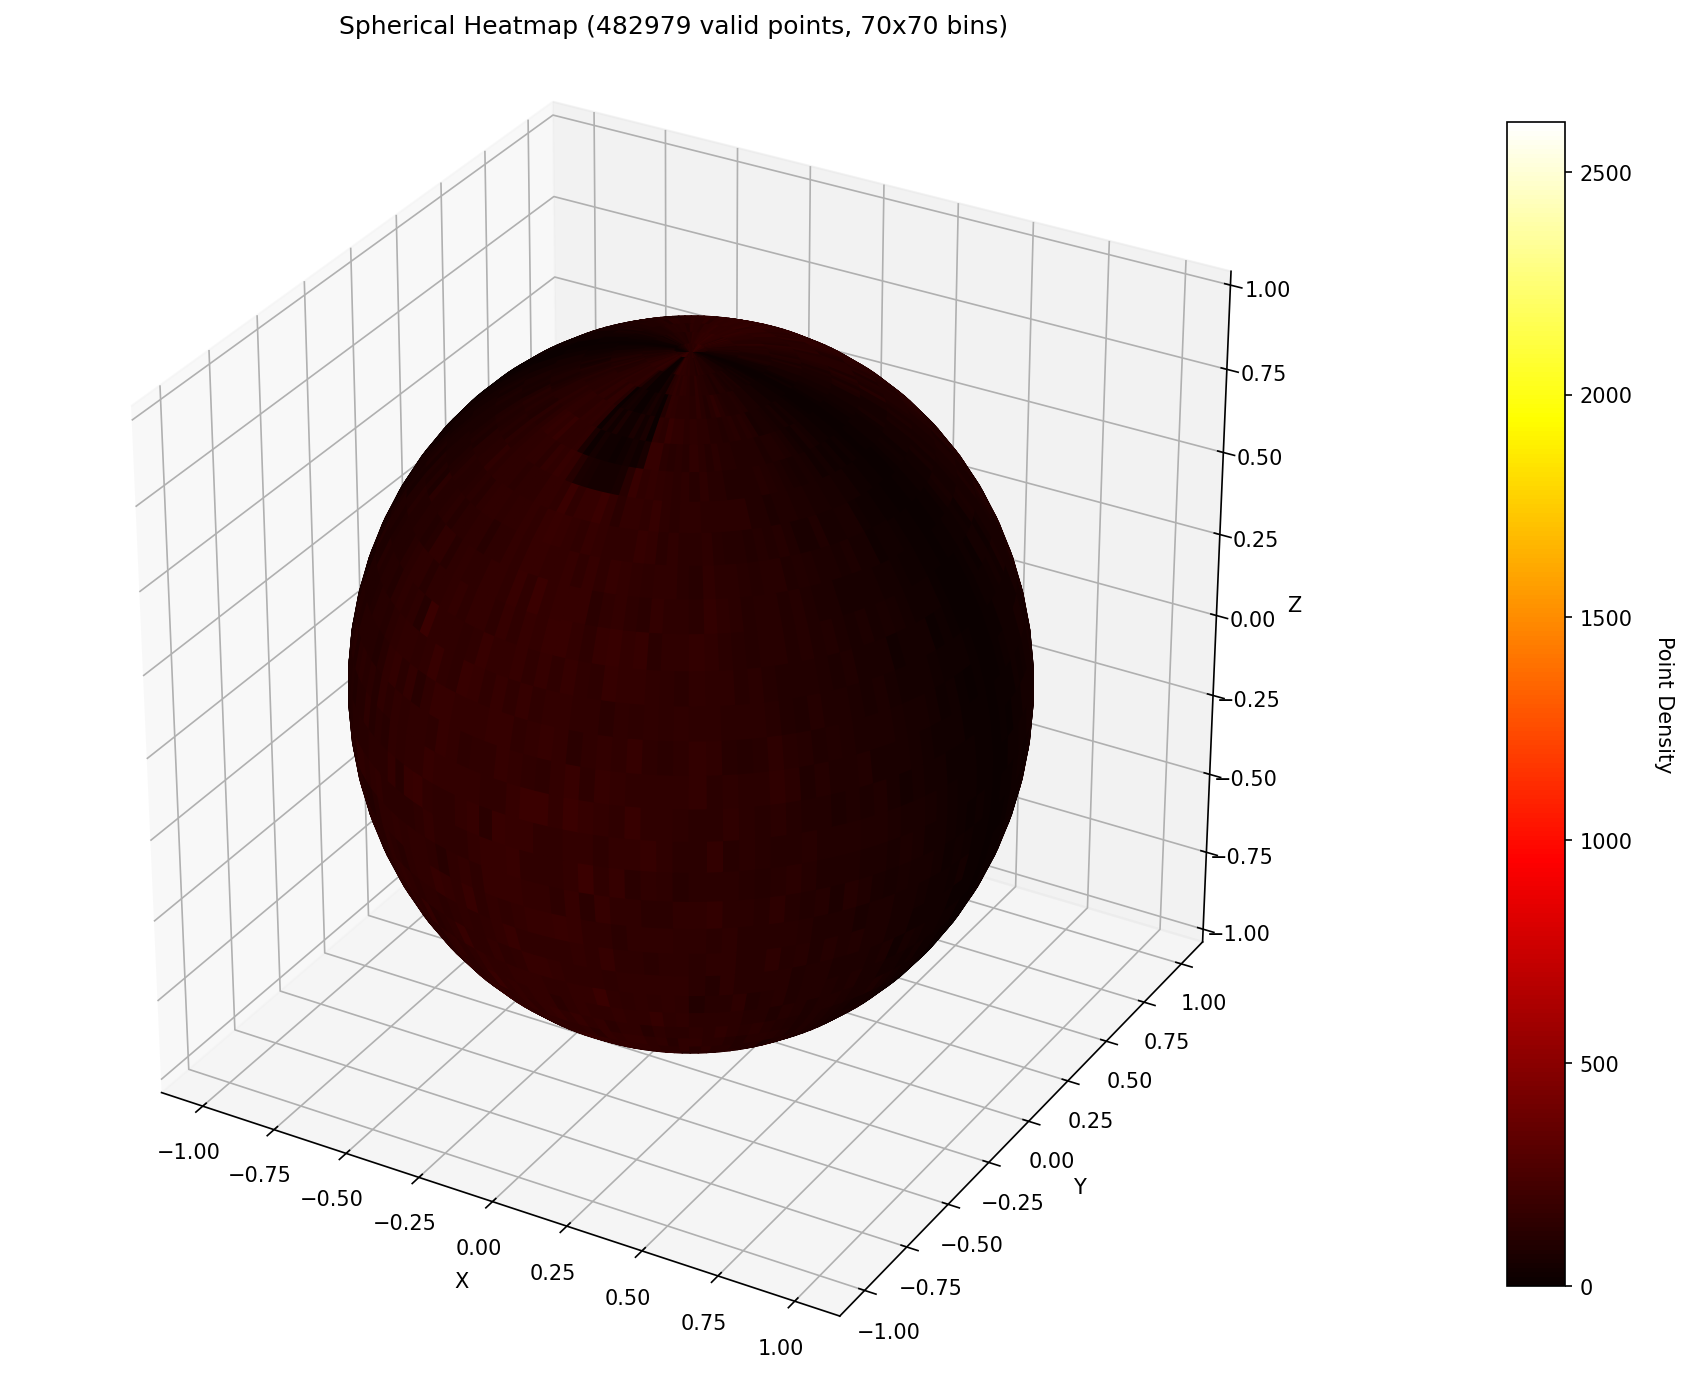
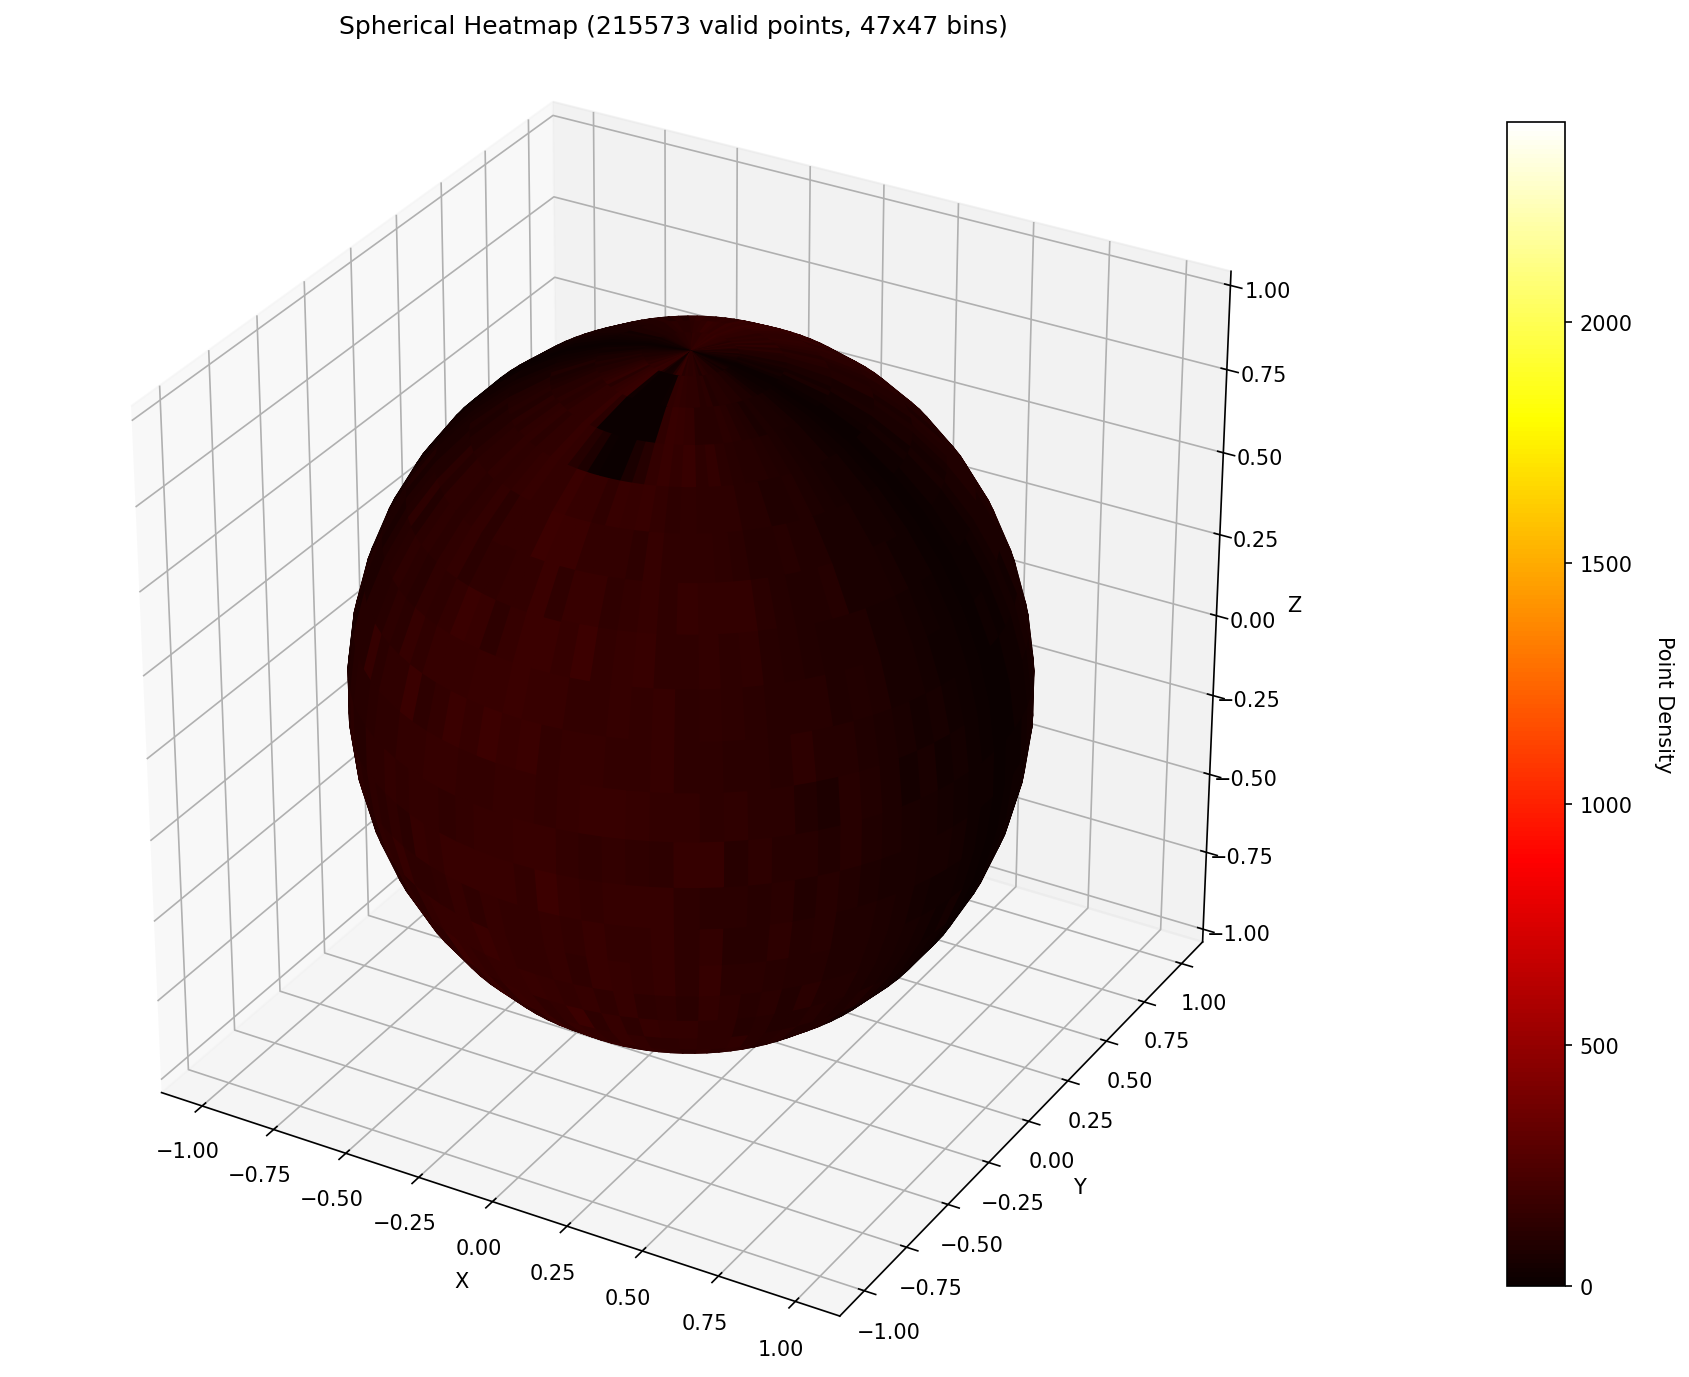
Messing Around with Plotting

diff --git a/plot_spherical.py b/plot_spherical.py
@@ -9,6 +9,9 @@ import matplotlib.pyplot as plt
 from mpl_toolkits.mplot3d import Axes3D
 import os
 from pathlib import Path
+import plotly.express as px
+import plotly.graph_objects as go
+import pandas as pd
 
 def load_npy_files(folder_path):
     """Load all npy files from a folder and return combined data."""
@@ -69,7 +72,8 @@ def analyze_probe_visits(data):
         'Interloper Visits',
         'White Hole Visits',
         'Stranger Visits',
-        'Random Eye Visits'
+        'Random Eye Visits',
+        'Spacey Visits'
     ]
     
     # Print total visits for each body
@@ -102,7 +106,7 @@ def analyze_probe_visits(data):
             if probe[field] > 0:
                 bodies_visited += 1
         
-        if bodies_visited > 1:
+        if bodies_visited > 2:
             multi_visit_probes.append((idx, probe, bodies_visited))
     
     print(f"\nFound {len(multi_visit_probes)} probes that visited multiple bodies\n")
@@ -129,11 +133,11 @@ def analyze_probe_visits(data):
                     body_name = field.replace(' Visits', '')
                     bodies_info.append(f"{body_name} ({visits})")
             
-            print(f"\nProbe {probe_idx}:")
-            print(f"  Bodies visited: {', '.join(bodies_info)}")
-            print(f"  Launch direction (x,y,z): ({launch_x:.6f}, {launch_y:.6f}, {launch_z:.6f})")
-            print(f"  Launch direction (polar, azimuth): ({polar:.6f}, {azimuth:.6f})")
-            print(f"  Launch velocity: {launch_vel:.6f}")
+            #print(f"\nProbe {probe_idx}:")
+            #print(f"  Bodies visited: {', '.join(bodies_info)}")
+            #print(f"  Launch direction (x,y,z): ({launch_x:.6f}, {launch_y:.6f}, {launch_z:.6f})")
+            #print(f"  Launch direction (polar, azimuth): ({polar:.6f}, {azimuth:.6f})")
+            #print(f"  Launch velocity: {launch_vel:.6f}")
     
     print("\n" + "=" * 70)
 
@@ -358,6 +362,145 @@ def plot_launch_directions_heatmap(data, x_field='Launch x', y_field='Launch y',
     plt.tight_layout()
     return fig, ax
 
+def plot_spherical_points(data, polar_field='Eye Shell Polar', azimuth_field='Eye Shell Azimuth', radius=1.0):
+    """
+    Plot points in spherical coordinates on a 3D sphere.
+    
+    Args:
+        data: numpy structured array
+        polar_field: Field name for polar angle
+        azimuth_field: Field name for azimuth angle
+        radius: Radius of the sphere (default 1.0)
+    """
+    if data is None or len(data) == 0:
+        print("No data to plot")
+        return
+    
+    # Extract fields
+    polar = np.array(data[polar_field], dtype=float)
+    azimuth = np.array(data[azimuth_field], dtype=float)
+    t = np.array(data['Eye Shell Time'], dtype=float)  # Assuming there's a time field for color mapping
+    # Filter out NaN values
+    valid_mask = np.isfinite(polar) & np.isfinite(azimuth)
+    polar = polar[valid_mask]
+    azimuth = azimuth[valid_mask]
+    t = t[np.isfinite(t)]
+    
+    num_discarded = len(data) - len(polar)
+    if num_discarded > 0:
+        print(f"Discarded {num_discarded} points with NaN values")
+    print(f"Using {len(polar)} valid points")
+    
+    if len(polar) == 0:
+        print("No valid data points after filtering NaN values")
+        return
+    
+    # Convert spherical to Cartesian coordinates
+    x, y, z = spherical_to_cartesian(polar, azimuth, radius=radius)
+    df = pd.DataFrame({
+        'x': x,
+        'y': y,
+        'z': z,
+        't': t
+    })
+    fig = px.scatter_3d(df, x='x', y='y', z='z', opacity=1, color='t')
+    fig.update_scenes(aspectmode='cube')  # Making the axes be a cube
+    fig.update_traces(marker_size=2)
+    fig.show()
+
+def plot_launch_directions(data, x_field='Launch x', y_field='Launch y', z_field='Launch z', 
+                           body_hit_colors=None):
+    """
+    Plot launch directions in 3D Cartesian coordinates.
+    NaN points are colored discretely by 'Body Hit' index, valid points by 'Eye Shell Time' (continuous).
+    
+    Args:
+        data: numpy structured array
+        x_field: Field name for x component
+        y_field: Field name for y component
+        z_field: Field name for z component
+        body_hit_colors: Dictionary mapping Body Hit index to color name. 
+                        Example: {0: 'red', 1: 'blue', 2: 'green', 3: 'yellow'}
+                        If None, uses default Plotly colors.
+    """
+    if data is None or len(data) == 0:
+        print("No data to plot")
+        return
+    
+    # Extract Cartesian components
+    x = np.array(data[x_field], dtype=float)
+    y = np.array(data[y_field], dtype=float)
+    z = np.array(data[z_field], dtype=float)
+    t = np.array(data['Eye Shell Time'], dtype=float)
+    body_hit = np.array(data['Body Hit'], dtype=float)
+    
+    # Create mask for valid points
+    valid_mask = np.isfinite(x) & np.isfinite(y) & np.isfinite(z)
+    
+    num_nan = np.sum(np.isnan(t))
+    num_valid = np.sum(np.isfinite(t))
+    if num_nan > 0:
+        print(f"Found {num_nan} points with NaN values (will color by Body Hit)")
+    print(f"Using {num_valid} valid points (colored by Eye Shell Time)")
+    
+    # Create figure
+    fig = go.Figure()
+    
+    # Add valid points (colored by Eye Shell Time - continuous)
+    if num_valid > 0:
+        x_valid = x[np.isfinite(t)]
+        y_valid = y[np.isfinite(t)]
+        z_valid = z[np.isfinite(t)]
+        t_valid = t[np.isfinite(t)]
+        
+        fig.add_trace(go.Scatter3d(
+            x=x_valid, y=y_valid, z=z_valid,
+            mode='markers',
+            marker=dict(
+                size=2,
+                color=t_valid,
+                colorscale='Viridis',
+                showscale=True,
+                colorbar=dict(title="Eye Shell Time", x=1.1)
+            ),
+            name='Valid Points',
+            opacity=1
+        ))
+    
+    # Add NaN points (colored by Body Hit - discrete)
+    if num_nan > 0:
+        x_nan = x[np.isnan(t)]
+        y_nan = y[np.isnan(t)]
+        z_nan = z[np.isnan(t)]
+        body_hit_nan = body_hit[np.isnan(t)]
+        
+        # Map Body Hit indices to color names
+        if body_hit_colors is None:
+            # Default color sequence
+            color_palette = ['red', 'blue', 'green', 'orange', 'purple', 'brown', 'pink', 'gray', 'olive', 'cyan']
+            # Get unique non-NaN values
+            unique_body_hits = np.unique(body_hit_nan[~np.isnan(body_hit_nan)])
+            body_hit_colors = {int(i): color_palette[idx % len(color_palette)] 
+                              for idx, i in enumerate(unique_body_hits)}
+        
+        # Group NaN points by Body Hit index for better legend
+        unique_indices = np.unique(body_hit_nan[~np.isnan(body_hit_nan)])
+        for body_hit_idx in unique_indices:
+            mask = body_hit_nan == body_hit_idx
+            fig.add_trace(go.Scatter3d(
+                x=x_nan[mask], y=y_nan[mask], z=z_nan[mask],
+                mode='markers',
+                marker=dict(
+                    size=2,
+                    color=body_hit_colors.get(int(body_hit_idx), 'gray')
+                ),
+                name=f'{int(body_hit_idx)}',
+                opacity=1
+            ))
+    
+    fig.update_layout(scene=dict(aspectmode='cube'))
+    fig.show()
+
 def main():
     """Main execution function."""
     outputs_folder = Path("Outputs")
@@ -380,39 +523,64 @@ def main():
         num_points = len(data)
         bins = min(100, max(30, int(np.sqrt(num_points / 100))))
         print(f"\nAuto-selecting {bins} bins for {num_points} points\n")
-        
+        if False:
         # Plot 1: Eye Shell position heatmap
-        print("=" * 60)
-        print("PLOT 1: Eye Shell Position Heatmap")
-        print("=" * 60)
-        fig1, ax1 = plot_spherical_heatmap(data, 
-                                           polar_field='Eye Shell Polar', 
-                                           azimuth_field='Eye Shell Azimuth', 
-                                           radius=1.0,
-                                           bins=bins)
+            print("=" * 60)
+            print("PLOT 1: Eye Shell Position Heatmap")
+            print("=" * 60)
+            fig1, ax1 = plot_spherical_heatmap(data, 
+                                            polar_field='Eye Shell Polar', 
+                                            azimuth_field='Eye Shell Azimuth', 
+                                            radius=1.0,
+                                            bins=bins)
+            
+            # Save figure
+            output_file1 = "spherical_heatmap_eye_shell.png"
+            plt.savefig(output_file1, dpi=150, bbox_inches='tight')
+            print(f"Plot saved to {output_file1}\n")
+        if False:
+            # Plot 2: Launch directions heatmap
+            print("=" * 60)
+            print("PLOT 2: Launch Directions Heatmap")
+            print("=" * 60)
+            fig2, ax2 = plot_launch_directions_heatmap(data,
+                                                    x_field='Launch x',
+                                                    y_field='Launch y',
+                                                    z_field='Launch z',
+                                                    radius=1.0,
+                                                    bins=bins)
+            
+            # Save figure
+            output_file2 = "spherical_heatmap_launch_directions.png"
+            plt.savefig(output_file2, dpi=150, bbox_inches='tight')
+            print(f"Plot saved to {output_file2}\n")
+            
+            plt.show()
+
+        plot_spherical_points(data, polar_field='Eye Shell Polar', azimuth_field='Eye Shell Azimuth', radius=286500)
         
-        # Save figure
-        output_file1 = "spherical_heatmap_eye_shell.png"
-        plt.savefig(output_file1, dpi=150, bbox_inches='tight')
-        print(f"Plot saved to {output_file1}\n")
-        
-        # Plot 2: Launch directions heatmap
-        print("=" * 60)
-        print("PLOT 2: Launch Directions Heatmap")
-        print("=" * 60)
-        fig2, ax2 = plot_launch_directions_heatmap(data,
-                                                   x_field='Launch x',
-                                                   y_field='Launch y',
-                                                   z_field='Launch z',
-                                                   radius=1.0,
-                                                   bins=bins)
-        
-        # Save figure
-        output_file2 = "spherical_heatmap_launch_directions.png"
-        plt.savefig(output_file2, dpi=150, bbox_inches='tight')
-        print(f"Plot saved to {output_file2}\n")
-        
-        plt.show()
+        # Define custom colors for Body Hit indices (NaN points only)
+        colormap = {
+            0:"#FFDF22",
+            1:"#9D00FF",
+            2:"#D3D3D3",
+            3:"#f05f44",
+            4:"#e19d49",
+            5: "#5a8240",
+            6: "#8e7263",
+            7: "#647297",
+            8: "#d86f23",
+            9: "#31a174",
+            10:"#676e4c",
+            11: "#55503a",
+            12: "#349fb9",
+            13: "#D3D3D3",
+            14: "#22a185",
+            15: "#8673A1",
+            16: "#00FF6A"
+        }
+        plot_launch_directions(data, x_field='Launch x', y_field='Launch y', z_field='Launch z',
+                              body_hit_colors=colormap)
     else:
         print("No data was loaded.")
 

diff --git a/SystemMovementCalculator.py b/SystemMovementCalculator.py
@@ -15,10 +15,10 @@ G = 1*10**(-3) #Gravitational Constant
 sun_mass = 4*10**11
 sun_radius = 2000
 ### Config Stuff
-Stepsize = 1/60 #In seconds
-EndMinute = 23 #Timeloop ends at 22:40 in the games, in minutes btw
-graphresults = False #Make a graph of the planet positions? (Doesn't do well with lots of points)
-Savemotion = True #Save the position of all bodies to file?
+Stepsize = 1 #In seconds
+EndMinute = 22 #Timeloop ends at 22:40 in the games, in minutes btw
+graphresults = True #Make a graph of the planet positions? (Doesn't do well with lots of points)
+Savemotion = False #Save the position of all bodies to file?
 Path = True #Shows the trajectory of probe path
 BodyPaths =  True #graphresults #Whether to show the path of the bodies in the system or not
 
@@ -166,7 +166,7 @@ BodiesList = [Sun,
               RingWorld,
               TheEye,
               Spacey]
-
+BodiesList = [Sun,CaveTwin,TowerTwin,TimberHearth,BrittleHollow,GiantsDeep,DarkBramble,Interloper]
 if Savemotion:
     numofbody = len(BodiesList)
     for i in range(numofbody):
@@ -219,7 +219,7 @@ if graphresults:
         Spacey.name: "#00FF6A"
     }
     if Path:
-        step = Stepsize*24
+        step = 60
         path = np.load("probepath.npy")[::int(step)]
         probeDF = pd.DataFrame({
             "time":path[:,0],

diff --git a/probe.py b/probe.py
@@ -27,7 +27,7 @@ total_n_pikmin_to_make = 800 #Total number of pikmin to make, this is the total 
 pikmin_on_field = None #Number of pikmin to run at once, this is the number of processes that will be running at once, if this is set to 1 then it will run in serial, if it is set to 4 then it will run 4 simulations at once, and so on, based on cores or something
 Mass_Simulation_Mode = True #Whether or not you are simulating one or multiple launches
 # If True then the mass for each planet is changed to produce the same gravity at the surface in both systems
-plotPath = False #Whether to plot or not
+plotPath = True #Whether to plot or not
 
 class Body:
     def __init__(self,timeandpos,propertiesDataframe = None):
@@ -315,7 +315,7 @@ def calculateSunRadius(t):
     if t < 10*60:
         return 2000
     elif ((10*60 <= t) and (t<19*60)): #Sun goes from radius of 2000 to 4000 over 9 minutes, assuming linear growth
-        return 7.407407*t-2444.4442
+        return 3.33333*t+200
     else:
         return 4000
 def random_3d_unit_vector():
@@ -476,11 +476,11 @@ else:
     else:
         print("Using In-Game gravity")
     ## Probe settings
-    unitvec = [0.066543, 0.997782, 0.001502]#random_3d_unit_vector()
+    unitvec = [0.995459,-0.071367,0.064554]#random_3d_unit_vector()
     print(unitvec)
     mag = 500
     print(mag)
-    calculateDragTest()
+    #calculateDragTest()
     ## Probe Simulation
     Test = probe(CannonIndex,mag,Bodies,np.asarray(unitvec),0,timestep=1/60,endtime=22)
     Test.runSimulation()
@@ -497,7 +497,8 @@ else:
         probepath = np.zeros((len(Test.path.t),4))
         probepath[:,0] = Test.path.t
         probepath[:,1:4] = Test.path.y[[0,2,4],:].T
-        print(f"Time: {Test.path.t_events[15]}, Cartesian Coordinates: {Test.getXYZ(Test.eyeArrivalTime)}, Spherical {cartToSpherical(Test.getXYZ(Test.eyeArrivalTime))}")
+        if not np.isnan(Test.eyeArrivalTime):
+            print(f"Time: {Test.path.t_events[15]}, Cartesian Coordinates: {Test.getXYZ(Test.eyeArrivalTime)}, Spherical {cartToSpherical(Test.getXYZ(Test.eyeArrivalTime))}")
         range = [-800000,800000]
         step = 60*1 #Step in stepsizes
         fig = px.scatter_3d(x=probepath[:,1][::step],y=probepath[:,2][::step],z=probepath[:,3][::step],animation_frame=probepath[:,0][::step],range_x=range,range_y=range,range_z=range) #